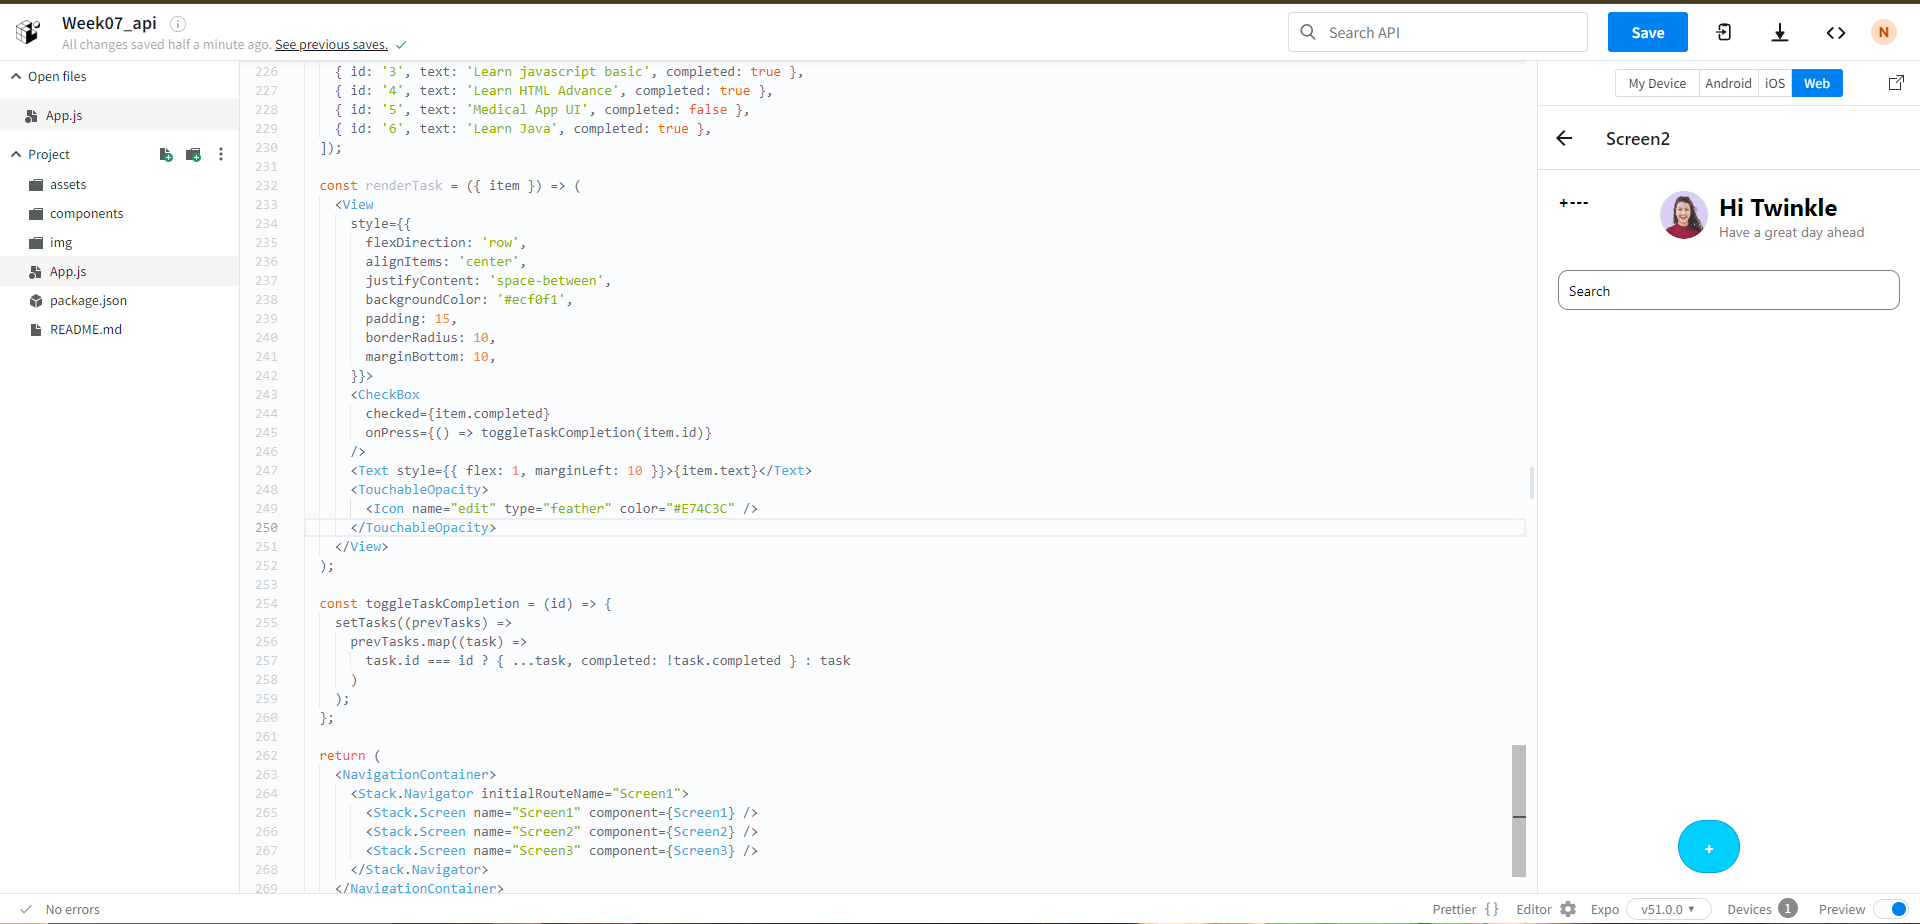
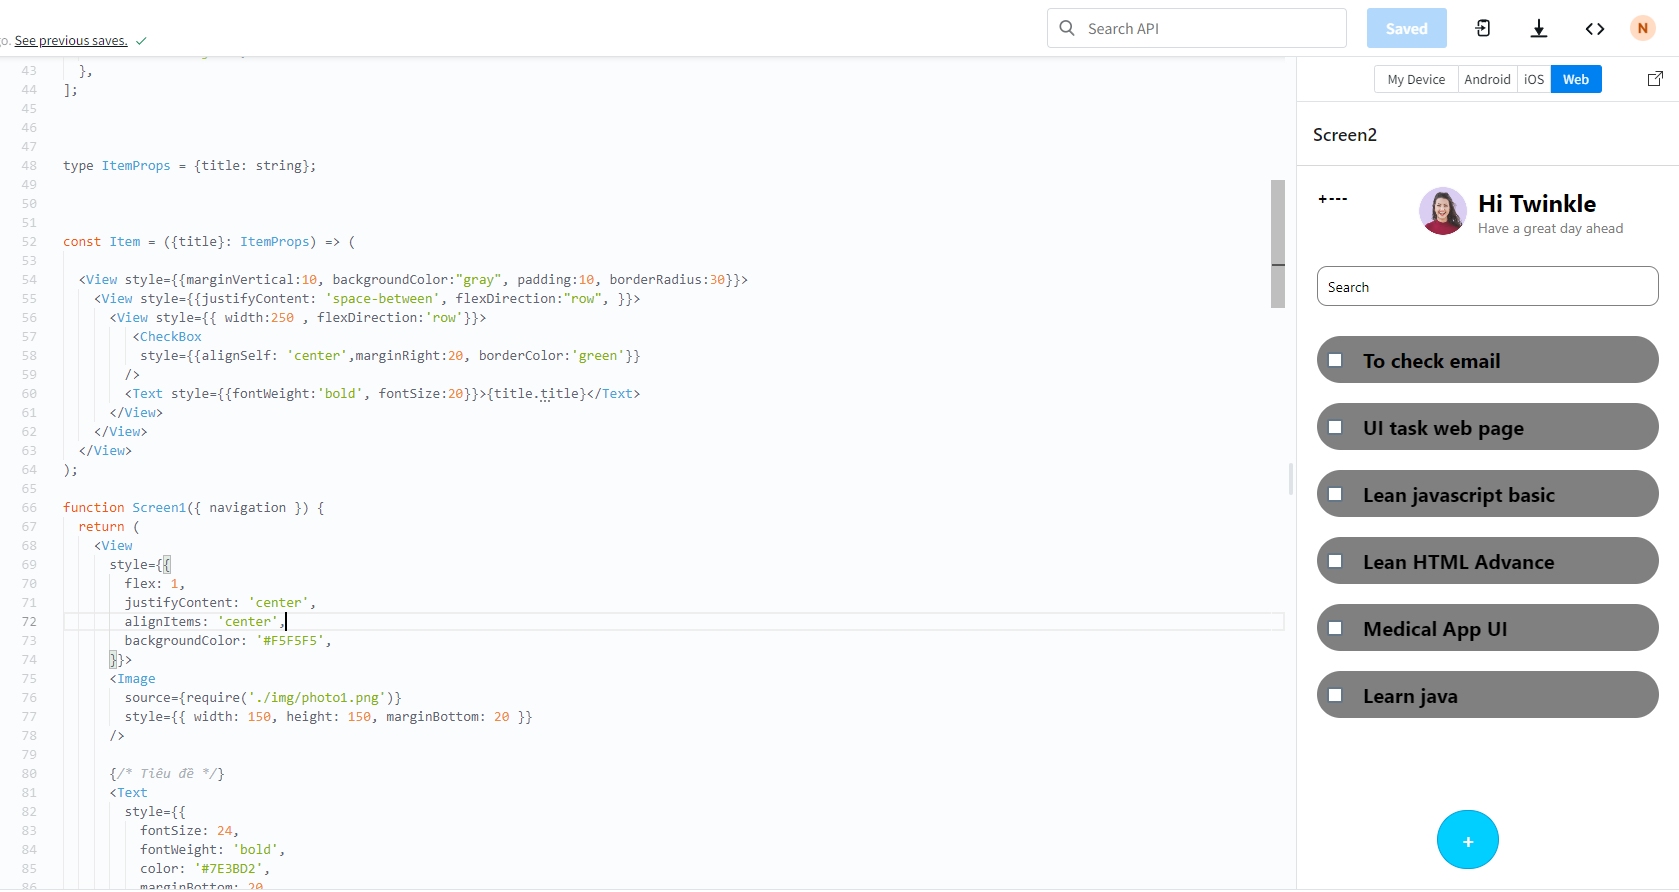
Week07 LTTBDD

diff --git a/week07/App.js b/week07/App.js
@@ -11,9 +11,57 @@ import {
   FlatList,
   tasks,
   renderTask,
+  styles
 } from 'react-native';
 import { NavigationContainer } from '@react-navigation/native';
 import { createNativeStackNavigator } from '@react-navigation/native-stack';
+
+const DATA = [
+  {
+    id: 'task01',
+    title: 'To check email',
+  },
+  {
+    id: 'task01',
+    title: 'UI task web page',
+  },
+  {
+    id: 'task01',
+    title: 'Lean javascript basic',
+  },
+  {
+    id: 'task01',
+    title: 'Lean HTML Advance',
+  },
+  {
+    id: 'task01',
+    title: 'Medical App UI',
+  },
+  {
+    id: 'task01',
+    title: 'Learn java',
+  },
+];
+
+
+
+type ItemProps = {title: string};
+ 
+
+
+const Item = ({title}: ItemProps) => (
+  
+  <View style={{marginVertical:10, backgroundColor:"gray", padding:10, borderRadius:30}}>
+    <View style={{justifyContent: 'space-between', flexDirection:"row", }}>
+      <View style={{ width:250 , flexDirection:'row'}}>
+         <CheckBox
+          style={{alignSelf: 'center',marginRight:20, borderColor:'green'}}
+        />
+        <Text style={{fontWeight:'bold', fontSize:20}}>{title.title}</Text>    
+      </View>
+    </View>
+  </View>
+);
 
 function Screen1({ navigation }) {
   return (
@@ -122,9 +170,9 @@ function Screen2({ navigation }) {
       />
 
       <FlatList
-        data={tasks}
-        renderItem={renderTask}
-        keyExtractor={(item) => item.id}
+        data={DATA}
+        renderItem={({item}) => <Item title={item} />}
+        keyExtractor={item => item.id}
       />
 
       <TouchableOpacity
@@ -141,7 +189,7 @@ function Screen2({ navigation }) {
           marginHorizontal: 120,
         }}
         onPress={() => navigation.navigate('Screen3')}>
-        <Text style={{ color: 'white', fontSize: 16, fontWeight: 'bold' }}>
+        <Text style={{ color: 'white', fontSize: 20, fontWeight: 'bold' }}>
           +
         </Text>
       </TouchableOpacity>
@@ -220,48 +268,9 @@ function Screen3({ navigation }) {
 const Stack = createNativeStackNavigator();
 
 function App() {
-  const [tasks, setTasks] = useState([
-    { id: '1', text: 'To check email', completed: true },
-    { id: '2', text: 'UI task web page', completed: true },
-    { id: '3', text: 'Learn javascript basic', completed: true },
-    { id: '4', text: 'Learn HTML Advance', completed: true },
-    { id: '5', text: 'Medical App UI', completed: false },
-    { id: '6', text: 'Learn Java', completed: true },
-  ]);
-
-  const renderTask = ({ item }) => (
-    <View
-      style={{
-        flexDirection: 'row',
-        alignItems: 'center',
-        justifyContent: 'space-between',
-        backgroundColor: '#ecf0f1',
-        padding: 15,
-        borderRadius: 10,
-        marginBottom: 10,
-      }}>
-      <CheckBox
-        checked={item.completed}
-        onPress={() => toggleTaskCompletion(item.id)}
-      />
-      <Text style={{ flex: 1, marginLeft: 10 }}>{item.text}</Text>
-      <TouchableOpacity>
-        <Icon name="edit" type="feather" color="#E74C3C" />
-      </TouchableOpacity>
-    </View>
-  );
-
-  const toggleTaskCompletion = (id) => {
-    setTasks((prevTasks) =>
-      prevTasks.map((task) =>
-        task.id === id ? { ...task, completed: !task.completed } : task
-      )
-    );
-  };
-
   return (
     <NavigationContainer>
-      <Stack.Navigator initialRouteName="Screen1">
+      <Stack.Navigator initialRouteName="Screen2">
         <Stack.Screen name="Screen1" component={Screen1} />
         <Stack.Screen name="Screen2" component={Screen2} />
         <Stack.Screen name="Screen3" component={Screen3} />
